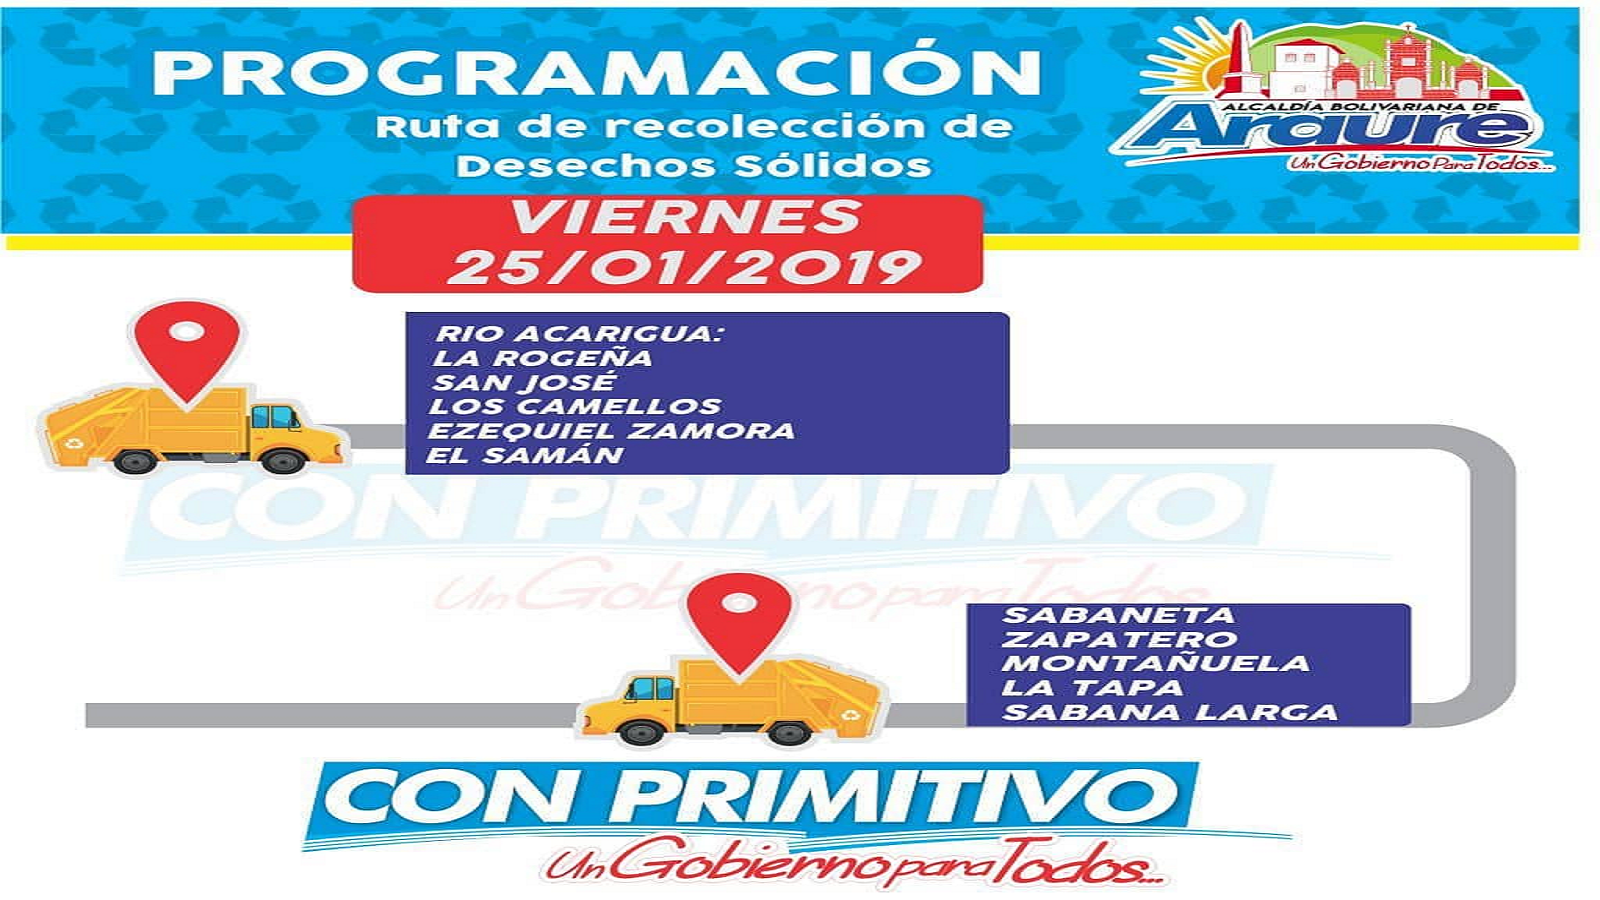
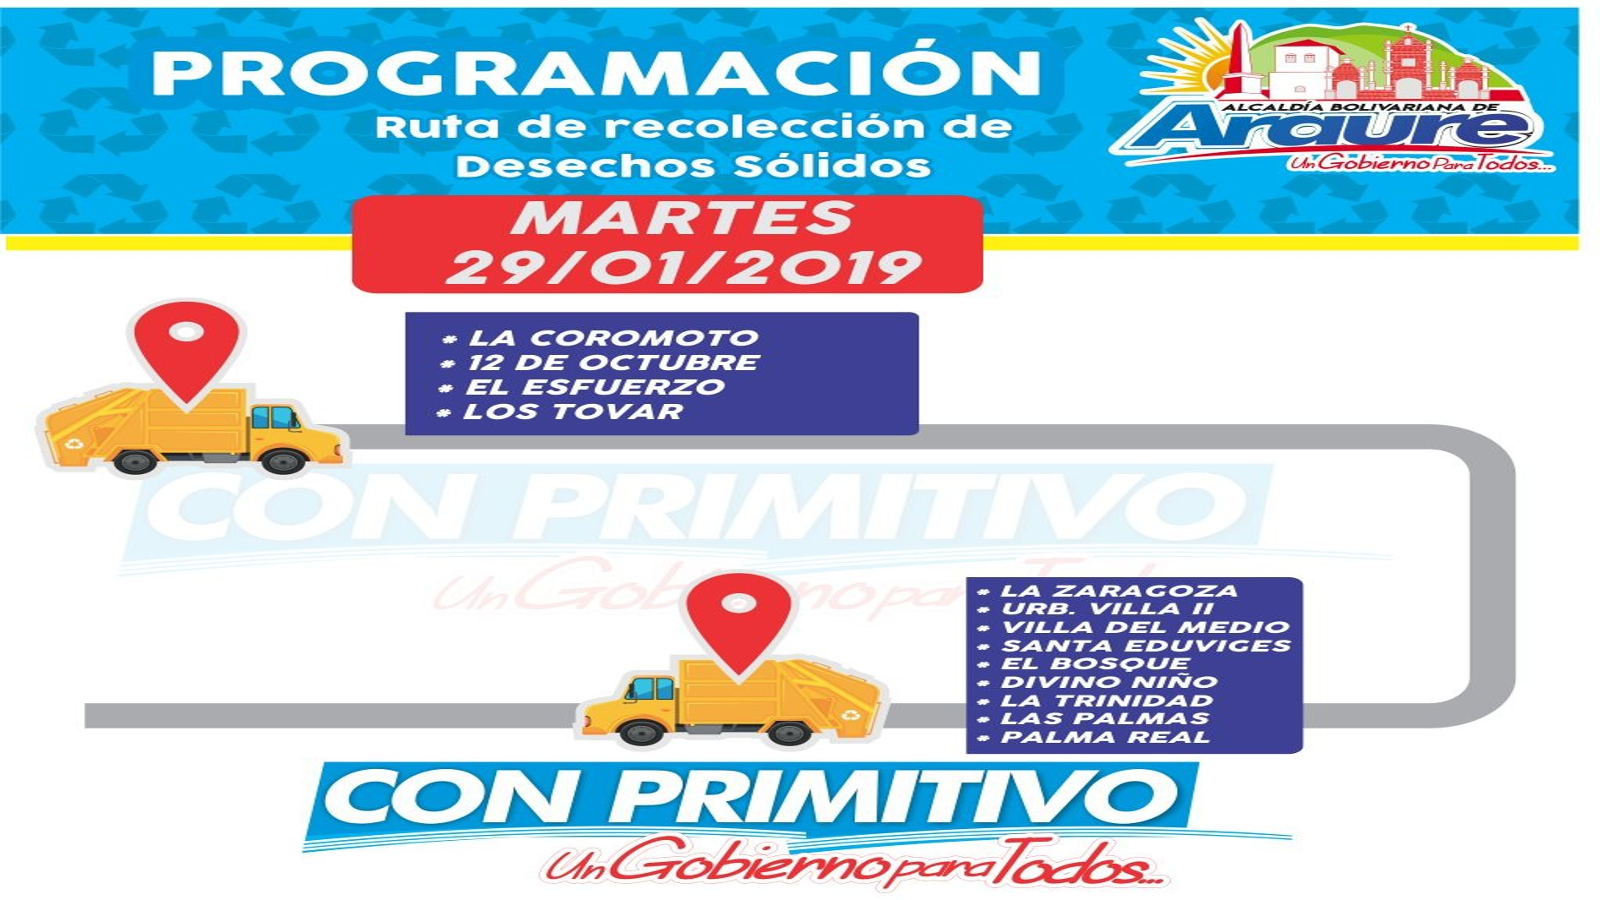
nuevas imagenes agregadas a avisos importantes

diff --git a/html/index.html b/html/index.html
@@ -220,22 +220,22 @@
                           <div class="col-md-12">
                         <div class="flexslider left">
                             <ul class="slides">
-                               <!-- <li>  Slide 1 -->
-                                   <!-- <img src="./img/Avisos_importantes/2019/aseo.png">
-                                    <div class="meta">-->
+                                <li>  <!--Slide 1 -->
+                                 <img src="./img/Avisos_importantes/2019/aseo.png">
+                                    <div class="meta">
                                        <!-- <h1>Lorem ipsum dolor sit amet, consectetur.</h1>
-                                        <h2>Lorem ipsum dolor sit.</h2>
+                                        <h2>Lorem ipsum dolor sit.</h2>-->
                                     </div>
-                                </li>-->
+                                </li>
                                  <li> <!-- Slide 2 -->
-                                    <img src="./img/Avisos_importantes/2019/juntos.png">
+                                    <img src="./img/Avisos_importantes/2019/feliz.png">
                                     <div class="meta"> 
                                         <!--<h1>Lorem ipsum dolor sit amet, consectetur.</h1>
                                         <h2>Lorem ipsum dolor sit.</h2>-->
                                     </div>
                                 </li>
                                 <li> <!-- Slide 3 -->
-                                    <img src="./img/Avisos_importantes/2019/comienzo.png">                
+                                    <img src="./img/Avisos_importantes/2019/29.png">                
                                      <div class="meta">
                                        <!-- <h1>Lorem ipsum dolor sit amet, consectetur.</h1>
                                         <h2>Lorem ipsum dolor sit.</h2>-->
